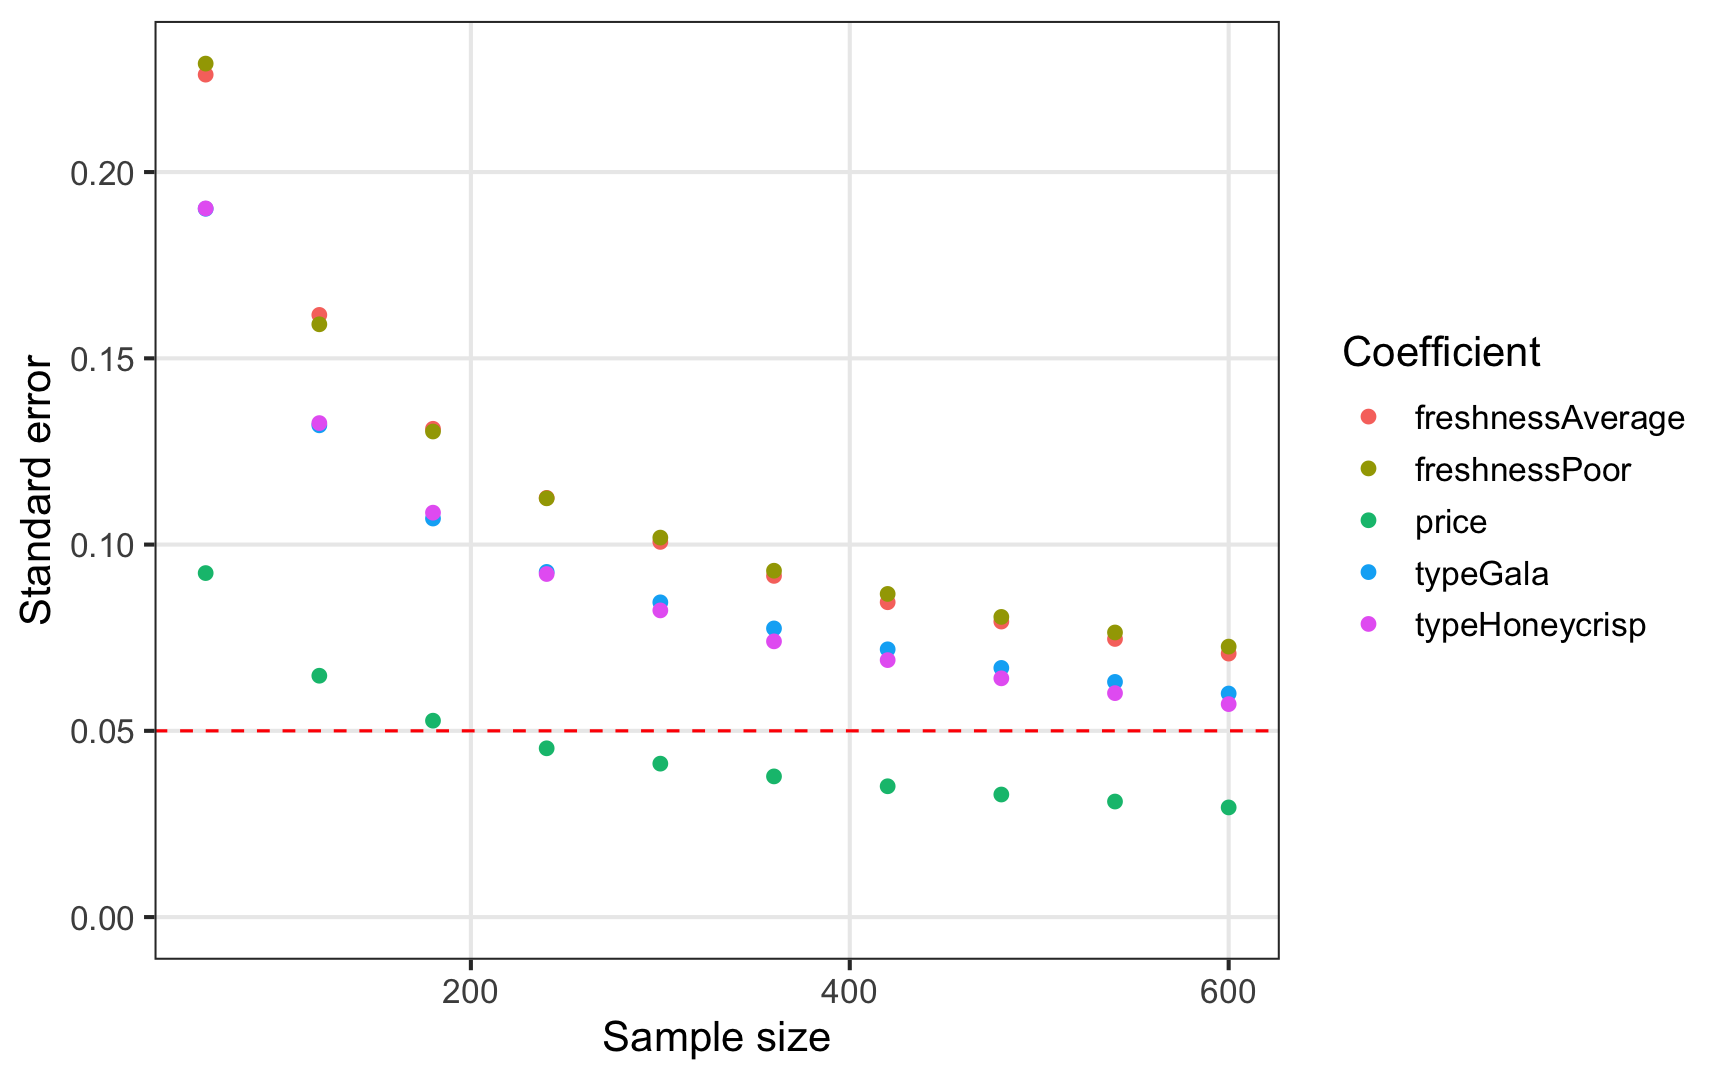
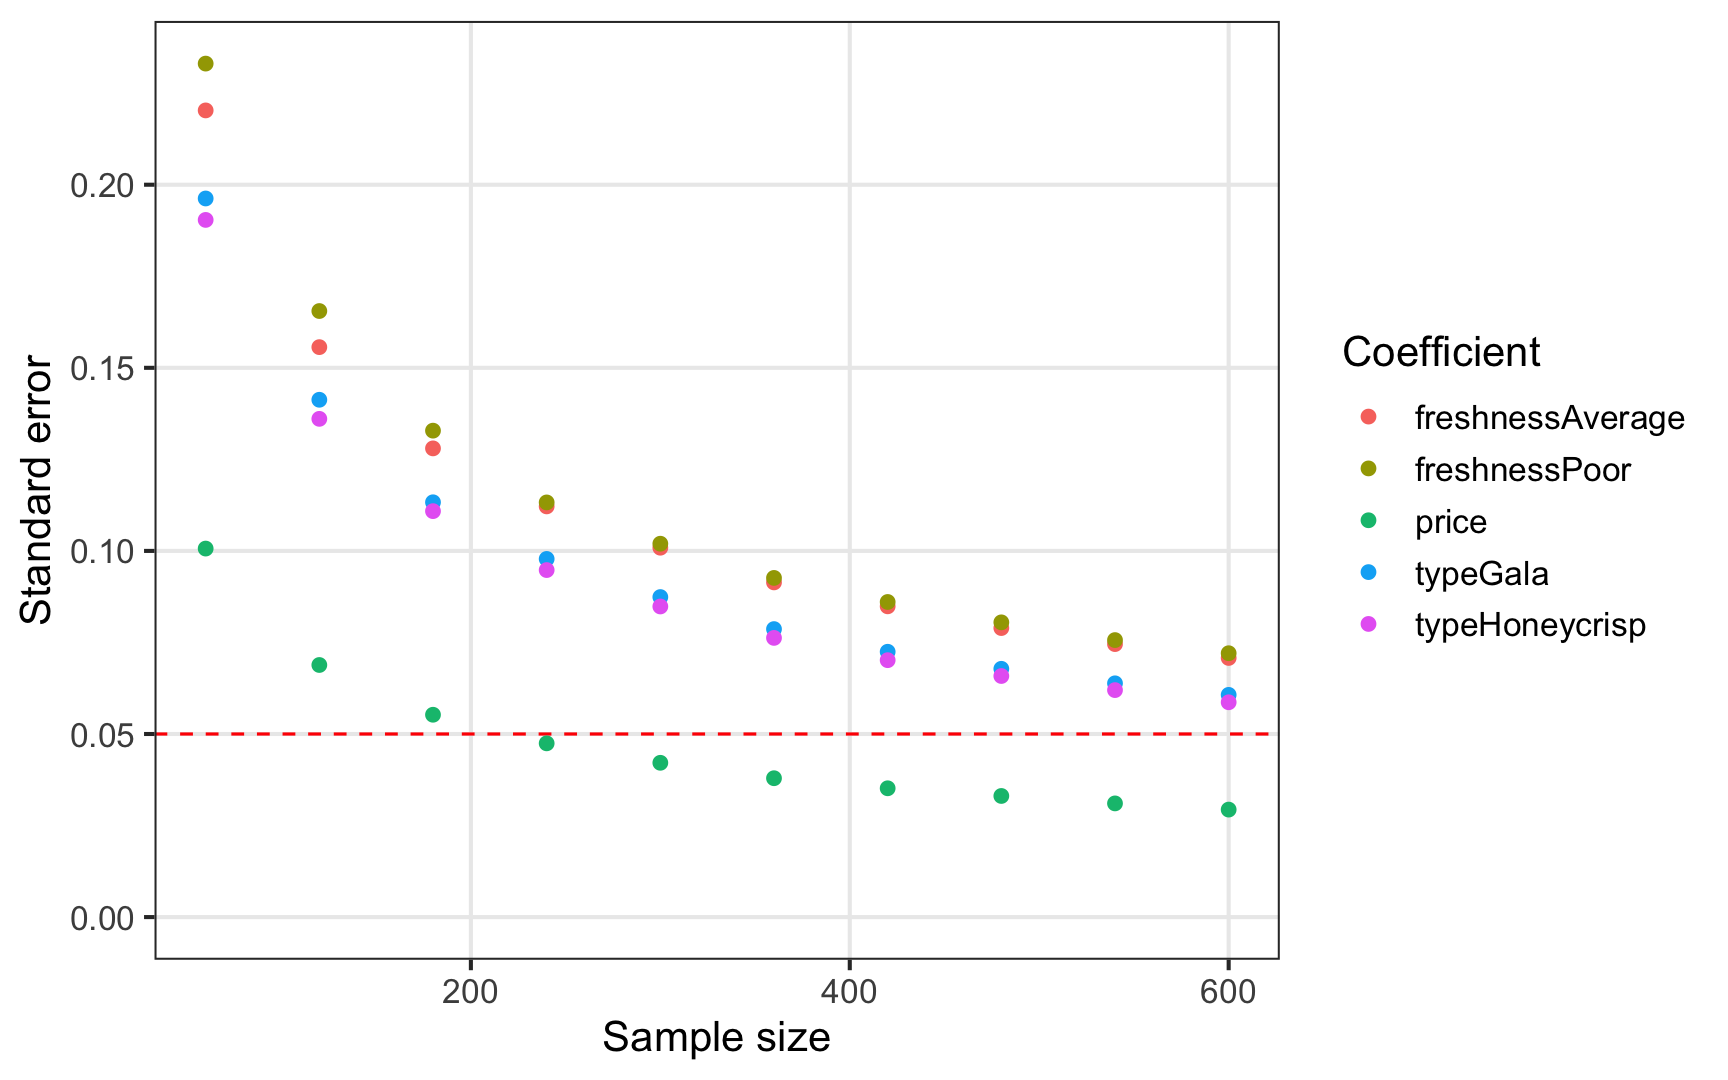
updated examples

diff --git a/index.html b/index.html
@@ -425,12 +425,12 @@ head(design)
 
 ```
 #&gt;   respID qID altID obsID profileID price       type freshness
-#&gt; 1      1   1     1     1        31   2.0       Gala   Average
-#&gt; 2      1   1     2     1        49   4.0       Fuji      Poor
-#&gt; 3      1   1     3     1        16   1.5 Honeycrisp Excellent
-#&gt; 4      1   2     1     2        31   2.0       Gala   Average
-#&gt; 5      1   2     2     2        49   4.0       Fuji      Poor
-#&gt; 6      1   2     3     2        56   4.0       Gala      Poor
+#&gt; 1      1   1     1     1         6   3.5       Fuji Excellent
+#&gt; 2      1   1     2     1        25   2.5       Fuji   Average
+#&gt; 3      1   1     3     1        45   2.0       Fuji      Poor
+#&gt; 4      1   2     1     2        18   2.5 Honeycrisp Excellent
+#&gt; 5      1   2     2     2        32   2.5       Gala   Average
+#&gt; 6      1   2     3     2         7   4.0       Fuji Excellent
 ```
 
 ---
@@ -457,12 +457,12 @@ head(design)
 
 ```
 #&gt;       respID qID altID obsID profileID price type_Fuji type_Gala type_Honeycrisp freshness_Excellent freshness_Average freshness_Poor no_choice
-#&gt; 1          1   1     1     1        34   3.5         0         1               0                   0                 1              0         0
-#&gt; 2          1   1     2     1        12   3.0         0         1               0                   1                 0              0         0
-#&gt; 3          1   1     3     1        54   3.0         0         1               0                   0                 0              1         0
+#&gt; 1          1   1     1     1        43   1.0         1         0               0                   0                 0              1         0
+#&gt; 2          1   1     2     1        47   3.0         1         0               0                   0                 0              1         0
+#&gt; 3          1   1     3     1        27   3.5         1         0               0                   0                 1              0         0
 #&gt; 11000      1   1     4     1         0   0.0         0         0               0                   0                 0              0         1
-#&gt; 4          1   2     1     2         3   2.0         1         0               0                   1                 0              0         0
-#&gt; 5          1   2     2     2        29   1.0         0         1               0                   0                 1              0         0
+#&gt; 4          1   2     1     2        40   3.0         0         0               1                   0                 1              0         0
+#&gt; 5          1   2     2     2        16   1.5         0         0               1                   1                 0              0         0
 ```
 
 ---
@@ -490,11 +490,11 @@ head(design)
 ```
 #&gt;   respID qID altID obsID profileID price       type freshness
 #&gt; 1      1   1     1     1        45   2.0       Fuji      Poor
-#&gt; 2      1   1     2     1        34   3.5       Gala   Average
+#&gt; 2      1   1     2     1        12   3.0       Gala Excellent
 #&gt; 3      1   1     3     1        62   3.5 Honeycrisp      Poor
-#&gt; 4      1   2     1     2        25   2.5       Fuji   Average
-#&gt; 5      1   2     2     2         8   1.0       Gala Excellent
-#&gt; 6      1   2     3     2        19   3.0 Honeycrisp Excellent
+#&gt; 4      1   2     1     2        49   4.0       Fuji      Poor
+#&gt; 5      1   2     2     2        12   3.0       Gala Excellent
+#&gt; 6      1   2     3     2        40   3.0 Honeycrisp   Average
 ```
 
 ---
@@ -642,11 +642,11 @@ head(data)
 ```
 #&gt;   respID qID altID obsID profileID price       type freshness choice
 #&gt; 1      1   1     1     1        45   2.0       Fuji      Poor      0
-#&gt; 2      1   1     2     1        34   3.5       Gala   Average      0
+#&gt; 2      1   1     2     1        12   3.0       Gala Excellent      0
 #&gt; 3      1   1     3     1        62   3.5 Honeycrisp      Poor      1
-#&gt; 4      1   2     1     2        25   2.5       Fuji   Average      0
-#&gt; 5      1   2     2     2         8   1.0       Gala Excellent      1
-#&gt; 6      1   2     3     2        19   3.0 Honeycrisp Excellent      0
+#&gt; 4      1   2     1     2        49   4.0       Fuji      Poor      1
+#&gt; 5      1   2     2     2        12   3.0       Gala Excellent      0
+#&gt; 6      1   2     3     2        40   3.0 Honeycrisp   Average      0
 ```
 
 ---
@@ -753,12 +753,12 @@ head(power)
 
 ```
 #&gt;   sampleSize             coef         est         se
-#&gt; 1         60            price  0.01039211 0.09235160
-#&gt; 2         60         typeGala  0.31948570 0.19014684
-#&gt; 3         60   typeHoneycrisp  0.32384030 0.19024677
-#&gt; 4         60 freshnessAverage  0.20887605 0.22615381
-#&gt; 5         60    freshnessPoor  0.14539300 0.22912079
-#&gt; 6        120            price -0.09227504 0.06479305
+#&gt; 1         60            price -0.15499765 0.10063774
+#&gt; 2         60         typeGala  0.30044995 0.19624483
+#&gt; 3         60   typeHoneycrisp  0.42378639 0.19039153
+#&gt; 4         60 freshnessAverage  0.09587031 0.22029371
+#&gt; 5         60    freshnessPoor -0.26040359 0.23307860
+#&gt; 6        120            price -0.09724367 0.06884621
 ```
 
 ]
@@ -772,12 +772,12 @@ tail(power)
 
 ```
 #&gt;    sampleSize             coef          est         se
-#&gt; 45        540    freshnessPoor -0.117739581 0.07640364
-#&gt; 46        600            price -0.082295267 0.02943793
-#&gt; 47        600         typeGala -0.006132216 0.06001353
-#&gt; 48        600   typeHoneycrisp  0.196808713 0.05717587
-#&gt; 49        600 freshnessAverage  0.176885464 0.07073506
-#&gt; 50        600    freshnessPoor -0.103647175 0.07261020
+#&gt; 45        540    freshnessPoor -0.210802825 0.07564825
+#&gt; 46        600            price -0.092167008 0.02935447
+#&gt; 47        600         typeGala  0.172050443 0.06068744
+#&gt; 48        600   typeHoneycrisp  0.329655769 0.05866559
+#&gt; 49        600 freshnessAverage  0.004712594 0.07076636
+#&gt; 50        600    freshnessPoor -0.216824385 0.07205805
 ```
 
 ]
